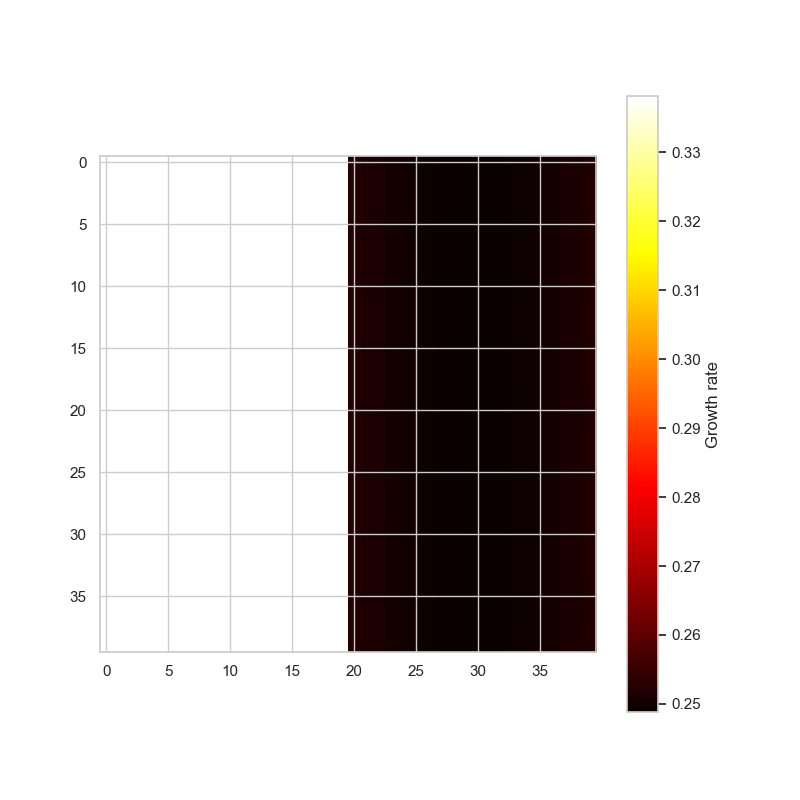
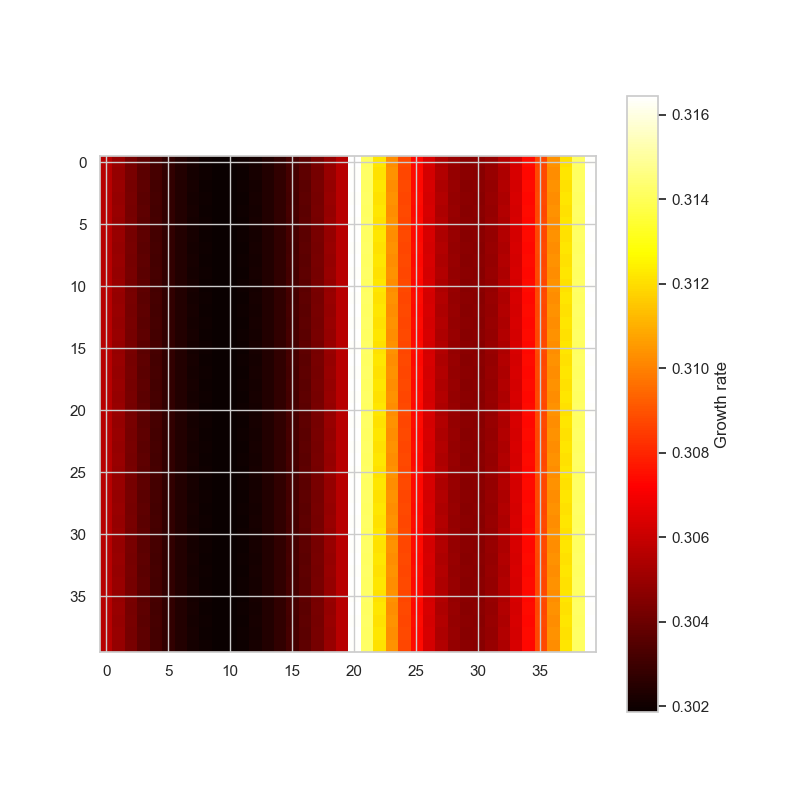
examp

diff --git a/R_space_dynamics.py b/R_space_dynamics.py
@@ -34,40 +34,41 @@ def f(R,R0,N,param,mat):
 
     """
     # resource loss due to uptake
-    out = np.dot((-R*mat['uptake']/(1+R)).T,N.T)
+    out = np.dot((R*mat['uptake']/(1+R)).T,N.T)
     # resource production due to metabolism
     inn = np.dot((1/param['w']*(np.dot(param['w']*param['l']*R*mat['uptake']/(1+R),mat['met'].T))).T,N.T)
     # resource replenishment
     ext = 1/param['tau']*(R0-R)
 
-    return (ext+inn+out)
+    return (ext+inn-out)
 
 #-----------------------------------------------------------------------------------
 # define SOR(param,mat,acc) function to implement the SOR algorithm for integration 
 # on a grid; assumes fixed boundary conditions
 
-def SOR(R,N,param,mat,acc,n):
+def SOR(R,N,param,mat):
     """
     R: current resource concentration (on current grid) matrice n x n x n_R
     N: state vector for individuals (complete matrix on the current grid)
     param: dictionary containing parameters
     mat: dictionary containing matrices
     acc: desired accuracy, determins when to stop algorithm
-    n: current grid size
 
     returns the equilibrium matrix n x n x n_r with concentrations and prints execution time
 
     """
+
+    n   = N.shape[0]               # grid size
     n_r = param['R0'].shape[2]     # numer of nutrients
     dx  = param['L0']/n            # step size
 
     # initialization and boundary conditions setting
-    R0 = change_grid(param['R0'],param['R0'].shape[0],n)
+    R0 = change_grid(param['R0'],n)
 
     # keep track of size of update
     delta = R.copy()
     delta_max = np.max(R)
-    delta_max_list = []
+    delta_max_list = [2,1]
 
     # SOR algorithm and keep track of time
     t1 = time()
@@ -80,7 +81,7 @@ def SOR(R,N,param,mat,acc,n):
         for j in range(n):
             ff[i,j,:] += f(R[i,j,:],R0[i,j,:],N[i,j,:],param,mat)
     
-    while ((delta>acc*R0).any()):
+    while (np.abs(delta_max_list[-1]-delta_max_list[-2])>param['acc']):
 
         # implement red/blue updates to make starting point ininfluential
         # loop on red
@@ -117,7 +118,7 @@ def SOR(R,N,param,mat,acc,n):
 # define SOR_multigrid() function to implement the SOR algorithm on a grid that keeps getting refined
 # the solution at the coarser grid is the initial guess of the finer grid
 
-def SOR_multigrid(n_0,n_ref,R,N,param,mat,acc):
+def SOR_multigrid(n_0,n_ref,R,N,param,mat):
     """
     n_0: initial grid size (corresponds to species grid size)
     n_ref: number of refinements
@@ -131,21 +132,27 @@ def SOR_multigrid(n_0,n_ref,R,N,param,mat,acc):
     coarse grid point
 
     """
-    R = SOR(R,N,param,mat,acc,n_0)                # first run
+    print('grid size is: ', R.shape[0])
+    R = SOR(R,N,param,mat)                              # first run
 
-    for i in range(1,n_ref+1):
-        n = n_0*2*i                               # current grid size
-        N_new = np.zeros((n,n,N.shape[2]))        # new grid for individuals
+    for i in range(2,n_ref+2):
+
+        print('grid refinement number:', i-1)
+        n = n_0*i                                       # current grid size
+        print('grid size is: ', n)
+
+        N_new = np.zeros((n,n,N.shape[2]))              # new grid for individuals
         # inverse restriction of individuals grid
         for k in range(n_0):
             for j in range(n_0):
                 N_new[i*k:i*k+i,i*j:i*j+i,:]=N[k,j,:]
-        R_new   = change_grid(R,R.shape[0],n)     # translate R on a refined grid 
-        SOR(R_new,N_new,param,mat,acc/(3**i),n)   # solve with SOR on this grid
-        R = R_new                                 # use this new solution as next initial guess
+        R_new   = change_grid(R,n)                      # translate R on a refined grid 
+
+        R_eq = SOR(R_new,N_new,param,mat)               # solve with SOR on this grid
+        R = R_eq                                        # use this new solution as next initial guess
 
     # go back to initial grid size
-    R_res = change_grid(R,R.shape[0],n_0)
+    R_res = change_grid(R,n_0)
 
     return R_res
 
@@ -153,15 +160,16 @@ def SOR_multigrid(n_0,n_ref,R,N,param,mat,acc):
 # define change_grid(matrix,n_in,n_fin) function to translate a matrix defined on a coarser grid
 # to a patrix defined on a finer grid (by interpolating) and viceversa (by restricting)
 
-def change_grid(matrix,n_in,n_fin):
+def change_grid(matrix,n_fin):
     """
     matrix: matrix that we wish to translate to a new grid
-    n_in: initial grid size
     n_fin: final grid size
 
     returns a matrix translated on the n_finxn_fin grid
 
     """
+    # extract initial grid size
+    n_in = matrix.shape[0]
 
     # create empty matrix of desired size
     interpolated_matrix = np.zeros((n_fin,n_fin, matrix.shape[2]))

diff --git a/__initCA__.py b/__initCA__.py
@@ -1,13 +1,13 @@
+
 """
-    __init__.py: a python program to integrate the resource dynamics on a grid
+__initCA__.py: code to run a simulation of random two species-four resources cellular automaton
 
 """
 
 import numpy as np
+import matplotlib.pyplot as plt
 
 from matplotlib.animation import FuncAnimation
-from matplotlib.animation import PillowWriter
-
 
 from R_space_dynamics import *
 from N_space_dynamics import *
@@ -15,12 +15,20 @@ from visualization  import *
 from update import *
 
 # initialize R0
-n_r = 2
+n_r = 4
 n_s = 2
 n   = 40
-R0  = np.zeros((n, n, n_r))
-R0[:,:,0]=10
-g   = np.array([0.5,0.5]) # growth convertion factors
+R0  = np.ones((n, n, n_r))
+R0[:,:,0]=10 # start with saturated supplied resource
+g   = np.ones((n_s))*0.5                               # growth convertion factors
+
+# initialize species 
+N = np.zeros((n, n, n_s))
+# random species disposition
+for i in range(n):
+    for j in range(n):
+        k = np.random.randint(0, n_s)  
+        N[i, j, k] = 1
 
 # define parameters
 param = {
@@ -33,27 +41,15 @@ param = {
     'k'  : 1,                                          # monod constant        [mass/vol]
     # sor algorithm parameters
     'n'  : n,                                          # grid points in each dim
-    'sor': 1.80,                                       # relaxation parameter
+    'sor': 1.50,                                       # relaxation parameter
     'L0' : 40,                                         # grid true size        [length]
-    'D'  : 1e3,                                        # diffusion constant    [area/time] 
-    'acc': 1e-7,                                       # maximum accepted stopping criterion   
-    'ref': 1                                           # number of grid refinements to perform 
+    'D'  : 1e3                                         # diffusion constant    [area/time]   
 }
 
-# initialize species 
-N = np.random.randint(2, size=(n, n, n_s))
-#N = np.zeros((n,n,n_s))
-# random species disposition
-#for i in range(n):
-#    for j in range(n):
-#        k = np.random.randint(0, n_s)  
-#        N[i, j, k] = 1
-#N[:,:20,0]=1
-#N[:,20:,1]=1
-
 # make matrices
-up_mat  = np.array([[0.8,0.],[0.,1]])
-met_mat = np.array([[0.,0.],[1.,0.]])
+up_mat  = np.random.rand(n_s,n_r)
+met_mat = np.random.rand(n_r,n_r)
+met_mat[0,:] = 0 # fix supplied resource
 print(up_mat)
 print(met_mat)
 
@@ -62,10 +58,18 @@ mat = {
     'met'    : met_mat
 }
 
-steps,R_fin,N_fin = run(3,R0,N,param,mat)
+# list of arrays to store time steps 
+steps = [decode(N)]
 
-R_ongrid(R_fin)
-N_ongrid(encode(N_fin))
+for i in range(1000):
+
+    R_eq,N_new,N_new_dec = update(R0,N,param,mat)
+    steps.append(N_new_dec)
+
+    R0 = R_eq
+    N  = N_new
+
+R_ongrid(R_eq)
 
 def update(frame):
     plt.clf()
@@ -75,11 +79,6 @@ def update(frame):
 
 # Crea l'animazione
 fig = plt.figure()
-ani = FuncAnimation(fig, update, frames=len(steps), interval=10)
-
-#writer = PillowWriter(fps=1000/10)  # Specifica il numero di frame al secondo
-#ani.save('animation.gif', writer=writer)
+ani = FuncAnimation(fig, update, frames=len(steps), interval=50)
 
 plt.show()
-
-

diff --git a/update.py b/update.py
@@ -1,0 +1,96 @@
+"""
+update.py: code containing the main update function for the species matrix
+
+CONTAINS:
+    - update: function using the equilibrium concentrations of resources to calculate growth rates
+              and perform the updates
+    - run: running function
+
+"""
+
+from R_space_dynamics import *
+from N_space_dynamics import *
+from time import time
+
+import numpy as np
+
+from visualization import R_ongrid
+
+#-----------------------------------------------------------------------------------------
+# define update(R_curr,N_curr,param,mat) function to perform one step of update of the grid
+# first solves for equilibrium R_eq, then calculates growth rates gr, and finally updates N
+
+def update(R_curr,N_curr,param,mat):
+    """
+    R_curr: current state of resources vectors matrix
+    N_curr: current state of species matrix
+    param: parameters dictionary
+    mat: matrices dictionary
+
+    returns the updated species matrix (both encoded and decoded), the equilibrium concentrations
+
+    """
+    R_eq = SOR_multigrid(N_curr.shape[0],param['ref'],R_curr,N_curr,param,mat)      
+    gr   = growth_rates(R_eq,N_curr,param,mat)
+    N_curr_dec = decode(N_curr)
+    N_new_dec  = death_birth(N_curr_dec,gr)
+    N_new      = encode(N_new_dec)
+
+    return R_eq,N_new,N_new_dec
+
+#-----------------------------------------------------------------------------------------
+# define run(times) function to run the simulation a desired number of times
+
+def run(times,R0,N0,param,mat):
+    """
+    times: number of steps we want to run the simulation for
+    R0: initial state of resources vectors matrix
+    N0: initial state of species matrix
+    param: parameters dictionary
+    mat: matrices dictionary
+
+    returns steps to produce a movie of the simulation and final R and N states
+
+    """
+
+    # start time
+    t = time()
+
+
+    # first time run on multigrid
+    R_eq,N_new,N_new_dec = update(R0,N0,param,mat)
+    # empty steps list
+    steps = [N_new_dec]
+
+    # then always solve on finest grid
+    for i in range(times):
+        print('iteration number: ',i)
+
+        # adapt to finest grid
+        r = param['ref']+1
+        R = change_grid(R_eq,N0.shape[0]*r)
+        N = np.zeros((N0.shape[0]*r,N0.shape[0]*r,N0.shape[2]))              # new grid for individuals
+
+        # inverse restriction of individuals grid
+        for k in range(N0.shape[0]):
+            for j in range(N0.shape[0]):
+                N[r*k:r*k+r,r*j:r*j+r,:]=N_new[k,j,:] 
+        print('current grid size: ', N0.shape[0]*r)
+
+        # run on finest grid
+        R_eq = SOR(R,N,param,mat)
+        R_eq = change_grid(R,N0.shape[0])
+        N    = change_grid(N,N0.shape[0])     
+        gr   = growth_rates(R_eq,N,param,mat)
+        N_dec = decode(N) 
+        N_new_dec  = death_birth(N_dec,gr)
+        N_new      = encode(N_new_dec)
+        
+        steps.append(N_new_dec)
+
+    tf = time()
+    print("\nTotal running time: %.2f min" % ((tf-t)/60))
+
+    return steps, R_eq, N_new_dec
+
+

diff --git a/N_space_dynamics.py b/N_space_dynamics.py
@@ -53,8 +53,8 @@ def death_birth(state,G):
 
     """
     # choose cell to kill
-    i = random.randint(0, state.shape[0]) 
-    j = random.randint(0, state.shape[0])
+    i = random.randint(0, state.shape[0]-1) 
+    j = random.randint(0, state.shape[0]-1)
 
     # look at the 8 neighbours (numbered from the bottom counterclockwise)and index for pbc
     n1j = n8j = n7j = j-1
@@ -64,6 +64,21 @@ def death_birth(state,G):
     n7i = n6i = n5i = i-1
     n1i = n2i = n3i = (i+1) % state.shape[0]
     n8i = n4i       = i
+
+    # only kill cells close to an interface (keep searching)
+    while ((state[i,j]==np.array([state[n1i,n1j],state[n2i,n2j],state[n3i,n3j],state[n4i,n4j],
+                   state[n5i,n5j],state[n6i,n6j],state[n7i,n7j],state[n8i,n8j]])).all()):
+                   i = random.randint(0, state.shape[0]-1) 
+                   j = random.randint(0, state.shape[0]-1)
+
+                   # look at the 8 neighbours (numbered from the bottom counterclockwise)and index for pbc
+                   n1j = n8j = n7j = j-1
+                   n3j = n4j = n5j = (j+1) % state.shape[0]
+                   n2j = n6j       = j
+               
+                   n7i = n6i = n5i = i-1
+                   n1i = n2i = n3i = (i+1) % state.shape[0]
+                   n8i = n4i       = i
 
     i_s = np.array([n1i,n2i,n3i,n4i,n5i,n6i,n7i,n8i])
     j_s = np.array([n1j,n2j,n3j,n4j,n5j,n6j,n7j,n8j])
